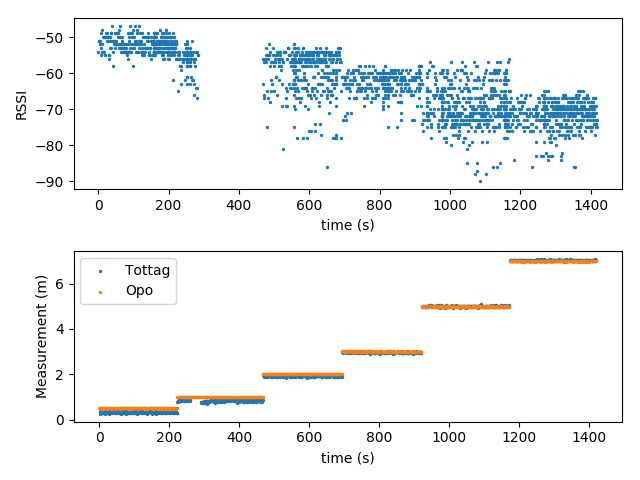
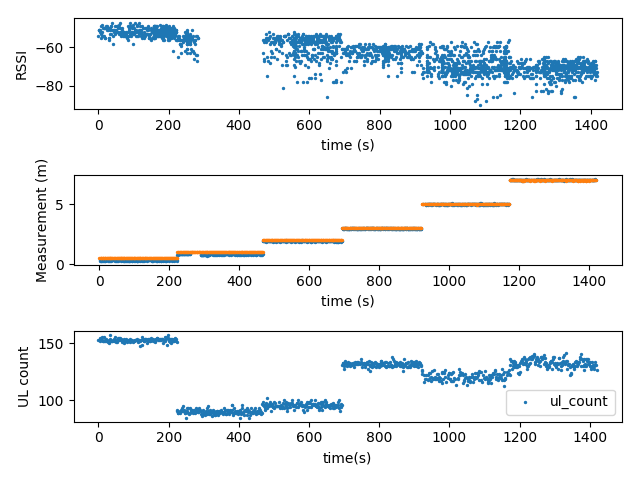
smooth yaw plotting

diff --git a/mobile_experiment.py b/mobile_experiment.py
@@ -220,11 +220,11 @@ def align_rtt(opo,tag1,tag2,bot1,bot2,h_offset, ul_count_cutoff):
     bot1_interp_x,bot1_interp_y = bot1_interp_x_f(interp_sample_timestamps),bot1_interp_y_f(interp_sample_timestamps)
     bot2_interp_x,bot2_interp_y = bot2_interp_x_f(interp_sample_timestamps),bot2_interp_y_f(interp_sample_timestamps)
     
-    #bot1_interp_yaws = bot1_interp_yaws_f(interp_sample_timestamps,bot1_interp_yaws_f(interp_sample_timestamps))
-    #bot2_interp_yaws = bot2_interp_yaws_f(interp_sample_timestamps,bot2_interp_yaws_f(interp_sample_timestamps))
+    bot1_interp_yaws = bot1_interp_yaws_f(interp_sample_timestamps)
+    bot2_interp_yaws = bot2_interp_yaws_f(interp_sample_timestamps)
 
     interp_groundtruth = [dist([bot1_interp_x[i],bot1_interp_y[i]], [bot2_interp_x[i],bot2_interp_y[i]-h_offset]) for i in range(len(interp_sample_timestamps))]
-    #relative_yaws = [bot2_interp_yaws[i]-bot1_interp_yaws[i] for i in range(len(interp_sample_timestamps))]
+    relative_yaws = [bot2_interp_yaws[i]-bot1_interp_yaws[i] for i in range(len(interp_sample_timestamps))]
     
     #calcualte opo error
     bot1_opo_moments_x, bot1_opo_moments_y = bot1_interp_x_f(opo_moments),bot1_interp_y_f(opo_moments)
@@ -234,7 +234,7 @@ def align_rtt(opo,tag1,tag2,bot1,bot2,h_offset, ul_count_cutoff):
     
     bot1_opo_moments_yaws = bot1_interp_yaws_f(opo_moments)
     bot2_opo_moments_yaws = bot2_interp_yaws_f(opo_moments)
-    relative_yaws_opo_moments = [bot2_opo_moments_yaws[i]-bot1_opo_moments_yaws[i] for i in range(len(opo_moments))]
+    #relative_yaws_opo_moments = [bot2_opo_moments_yaws[i]-bot1_opo_moments_yaws[i] for i in range(len(opo_moments))]
     
     #calculate tottag error
     bot1_tottag_moments_x, bot1_tottag_moments_y = bot1_interp_x_f(tottag_moments),bot1_interp_y_f(tottag_moments)
@@ -244,7 +244,9 @@ def align_rtt(opo,tag1,tag2,bot1,bot2,h_offset, ul_count_cutoff):
     
     bot1_tottag_moments_yaws = bot1_interp_yaws_f(tottag_moments)
     bot2_tottag_moments_yaws = bot2_interp_yaws_f(tottag_moments)
-    relative_yaws_tottag_moments = [bot2_tottag_moments_yaws[i]-bot1_tottag_moments_yaws[i] for i in range(len(tottag_moments))]
+    #relative_yaws_tottag_moments = [bot2_tottag_moments_yaws[i]-bot1_tottag_moments_yaws[i] for i in range(len(tottag_moments))]
+    
+    interp_sample_timestamps_offset=[x-interval_min for x in interp_sample_timestamps]
     
     fig, (ax1,ax2,ax3) = plt.subplots(3)
     #plot opo error vs bot yaw
@@ -253,8 +255,8 @@ def align_rtt(opo,tag1,tag2,bot1,bot2,h_offset, ul_count_cutoff):
     ax1.scatter(opo_moments_offset,opo_error,color='tab:red',s=6)
     ax1.set_ylabel("Error (m)",color='tab:red',fontsize=12)
     ax1_twin=ax1.twinx()
-    ax1_twin.plot(opo_moments_offset,relative_yaws_opo_moments,color='tab:blue')
-    ax1_twin.scatter(opo_moments_offset,relative_yaws_opo_moments,color='tab:blue',s=6)
+    ax1_twin.plot(interp_sample_timestamps_offset,relative_yaws,color='tab:blue')
+    #ax1_twin.scatter(interp_sample_timestamps_offset,relative_yaws,color='tab:blue',s=6)
     ax1_twin.set_ylabel("Relative Yaw",color='tab:blue',fontsize=12)
     ax1.title.set_text('Opo Error')
     #plot tottag error vs bot yaw
@@ -263,13 +265,13 @@ def align_rtt(opo,tag1,tag2,bot1,bot2,h_offset, ul_count_cutoff):
     ax2.scatter(tottag_moments_offset,tottag_error,color='tab:red',s=6)
     ax2.set_ylabel("Error (m)",color='tab:red',fontsize=12)
     ax2_twin=ax2.twinx()
-    ax2_twin.plot(tottag_moments_offset,relative_yaws_tottag_moments,color='tab:blue')
-    ax2_twin.scatter(tottag_moments_offset,relative_yaws_tottag_moments,color='tab:blue',s=6)
+    ax2_twin.plot(interp_sample_timestamps_offset,relative_yaws,color='tab:blue')
+    #ax2_twin.scatter(interp_sample_timestamps_offset,relative_yaws,color='tab:blue',s=6)
     ax2_twin.set_ylabel("Relative Yaw",color='tab:blue',fontsize=12)
     ax2.title.set_text('Tottag Error')
     #plot opo, tottag vs ground truth
     ax3.set_xlim([0, interval_max-interval_min])
-    ax3.plot([x-interval_min for x in interp_sample_timestamps],interp_groundtruth,label='ground truth',color='#1f77b4')
+    ax3.plot(interp_sample_timestamps_offset,interp_groundtruth,label='ground truth',color='#1f77b4')
     ax3.scatter(opo_moments_offset,opo_dist_opo_moments, label='opo',s=20,color='#ff7f0e')
     ax3.scatter(tottag_moments_offset,tottag_dist_tottag_moments,label='tottag',s=6,color='g')
     ax3.set_xlabel('Time (s)')

diff --git a/mobile_and_static.py b/mobile_and_static.py
@@ -129,8 +129,11 @@ def align_rtt(opo,tag1,tag2,bot1,fixed_point, ul_count_cutoff):
     interp_sample_timestamps = np.arange(interval_min, interval_max, 0.002)
     interp_sample_timestamps = np.clip(interp_sample_timestamps,interval_min, interval_max)
     bot1_interp_x,bot1_interp_y = bot1_interp_x_f(interp_sample_timestamps),bot1_interp_y_f(interp_sample_timestamps)
+    
+    bot1_interp_yaws = bot1_interp_yaws_f(interp_sample_timestamps)
 
     interp_groundtruth = [dist([bot1_interp_x[i],bot1_interp_y[i]], fixed_point) for i in range(len(interp_sample_timestamps))]
+    relative_yaws = [0-bot1_interp_yaws[i] for i in range(len(interp_sample_timestamps))]
     
     #calcualte opo error
     bot1_opo_moments_x, bot1_opo_moments_y = bot1_interp_x_f(opo_moments),bot1_interp_y_f(opo_moments)
@@ -138,7 +141,7 @@ def align_rtt(opo,tag1,tag2,bot1,fixed_point, ul_count_cutoff):
     opo_error=[opo_dist_opo_moments[i]-opo_moments_groundtruth[i] for i in range(len(opo_moments))]
     
     bot1_opo_moments_yaws = bot1_interp_yaws_f(opo_moments)
-    relative_yaws_opo_moments = [0-bot1_opo_moments_yaws[i] for i in range(len(opo_moments))]
+    #relative_yaws_opo_moments = [0-bot1_opo_moments_yaws[i] for i in range(len(opo_moments))]
     
     #calculate tottag error
     bot1_tottag_moments_x, bot1_tottag_moments_y = bot1_interp_x_f(tottag_moments),bot1_interp_y_f(tottag_moments)
@@ -146,7 +149,7 @@ def align_rtt(opo,tag1,tag2,bot1,fixed_point, ul_count_cutoff):
     tottag_error=[tottag_dist_tottag_moments[i]-tottag_moments_groundtruth[i] for i in range(len(tottag_moments))]
     
     bot1_tottag_moments_yaws = bot1_interp_yaws_f(tottag_moments)
-    relative_yaws_tottag_moments = [0-bot1_tottag_moments_yaws[i] for i in range(len(tottag_moments))]
+    #relative_yaws_tottag_moments = [0-bot1_tottag_moments_yaws[i] for i in range(len(tottag_moments))]
     
 
     
@@ -163,6 +166,7 @@ def align_rtt(opo,tag1,tag2,bot1,fixed_point, ul_count_cutoff):
     plt.legend()
     '''
     
+    interp_sample_timestamps_offset=[x-interval_min for x in interp_sample_timestamps]
     fig, (ax1,ax2,ax3) = plt.subplots(3)
     #plot opo error vs bot yaw
     ax1.set_xlim([0, interval_max-interval_min])
@@ -170,8 +174,8 @@ def align_rtt(opo,tag1,tag2,bot1,fixed_point, ul_count_cutoff):
     ax1.scatter(opo_moments_offset,opo_error,color='tab:red',s=6)
     ax1.set_ylabel("Error (m)",color='tab:red',fontsize=12)
     ax1_twin=ax1.twinx()
-    ax1_twin.plot(opo_moments_offset,relative_yaws_opo_moments,color='tab:blue')
-    ax1_twin.scatter(opo_moments_offset,relative_yaws_opo_moments,color='tab:blue',s=6)
+    ax1_twin.plot(interp_sample_timestamps_offset,relative_yaws,color='tab:blue')
+    #ax1_twin.scatter(interp_sample_timestamps_offset,relative_yaws,color='tab:blue',s=6)
     ax1_twin.set_ylabel("Relative Yaw",color='tab:blue',fontsize=12)
     ax1.title.set_text('Opo Error')
     #plot tottag error vs bot yaw
@@ -180,13 +184,13 @@ def align_rtt(opo,tag1,tag2,bot1,fixed_point, ul_count_cutoff):
     ax2.scatter(tottag_moments_offset,tottag_error,color='tab:red',s=6)
     ax2.set_ylabel("Error (m)",color='tab:red',fontsize=12)
     ax2_twin=ax2.twinx()
-    ax2_twin.plot(tottag_moments_offset,relative_yaws_tottag_moments,color='tab:blue')
-    ax2_twin.scatter(tottag_moments_offset,relative_yaws_tottag_moments,color='tab:blue',s=6)
+    ax2_twin.plot(interp_sample_timestamps_offset,relative_yaws,color='tab:blue')
+    #ax2_twin.scatter(interp_sample_timestamps_offset,relative_yaws,color='tab:blue',s=6)
     ax2_twin.set_ylabel("Relative Yaw",color='tab:blue',fontsize=12)
     ax2.title.set_text('Tottag Error')
     #plot opo, tottag vs ground truth
     ax3.set_xlim([0, interval_max-interval_min])
-    ax3.plot([x-interval_min for x in interp_sample_timestamps],interp_groundtruth,label='ground truth',color='#1f77b4')
+    ax3.plot(interp_sample_timestamps_offset,interp_groundtruth,label='ground truth',color='#1f77b4')
     ax3.scatter(opo_moments_offset,opo_dist_opo_moments, label='opo',s=20,color='#ff7f0e')
     ax3.scatter(tottag_moments_offset,tottag_dist_tottag_moments,label='tottag',s=6,color='g')
     ax3.set_xlabel('Time (s)')

diff --git a/static.py b/static.py
@@ -138,15 +138,15 @@ def process_rtt(path):
     
 
 
-#path='./exp/cse_building/static/level3/'    
-#process_rtt(path)
+path='./exp/cse_building/static/level3/'    
+process_rtt(path)
 
 
 #path='./exp/cse_building/static/level1/'    
 #process_rtt(path)
 
-path='./exp/placeA/static/level1/'    #1m: first 2min05s opo data needs discard
-process_rtt(path)
+#path='./exp/placeA/static/level1/'    #1m: first 2min05s opo data needs discard
+#process_rtt(path)
 
 #path='./exp/placeA/static/level3/'    #1m: first 2min05s opo data needs discard
 #process_rtt(path)
